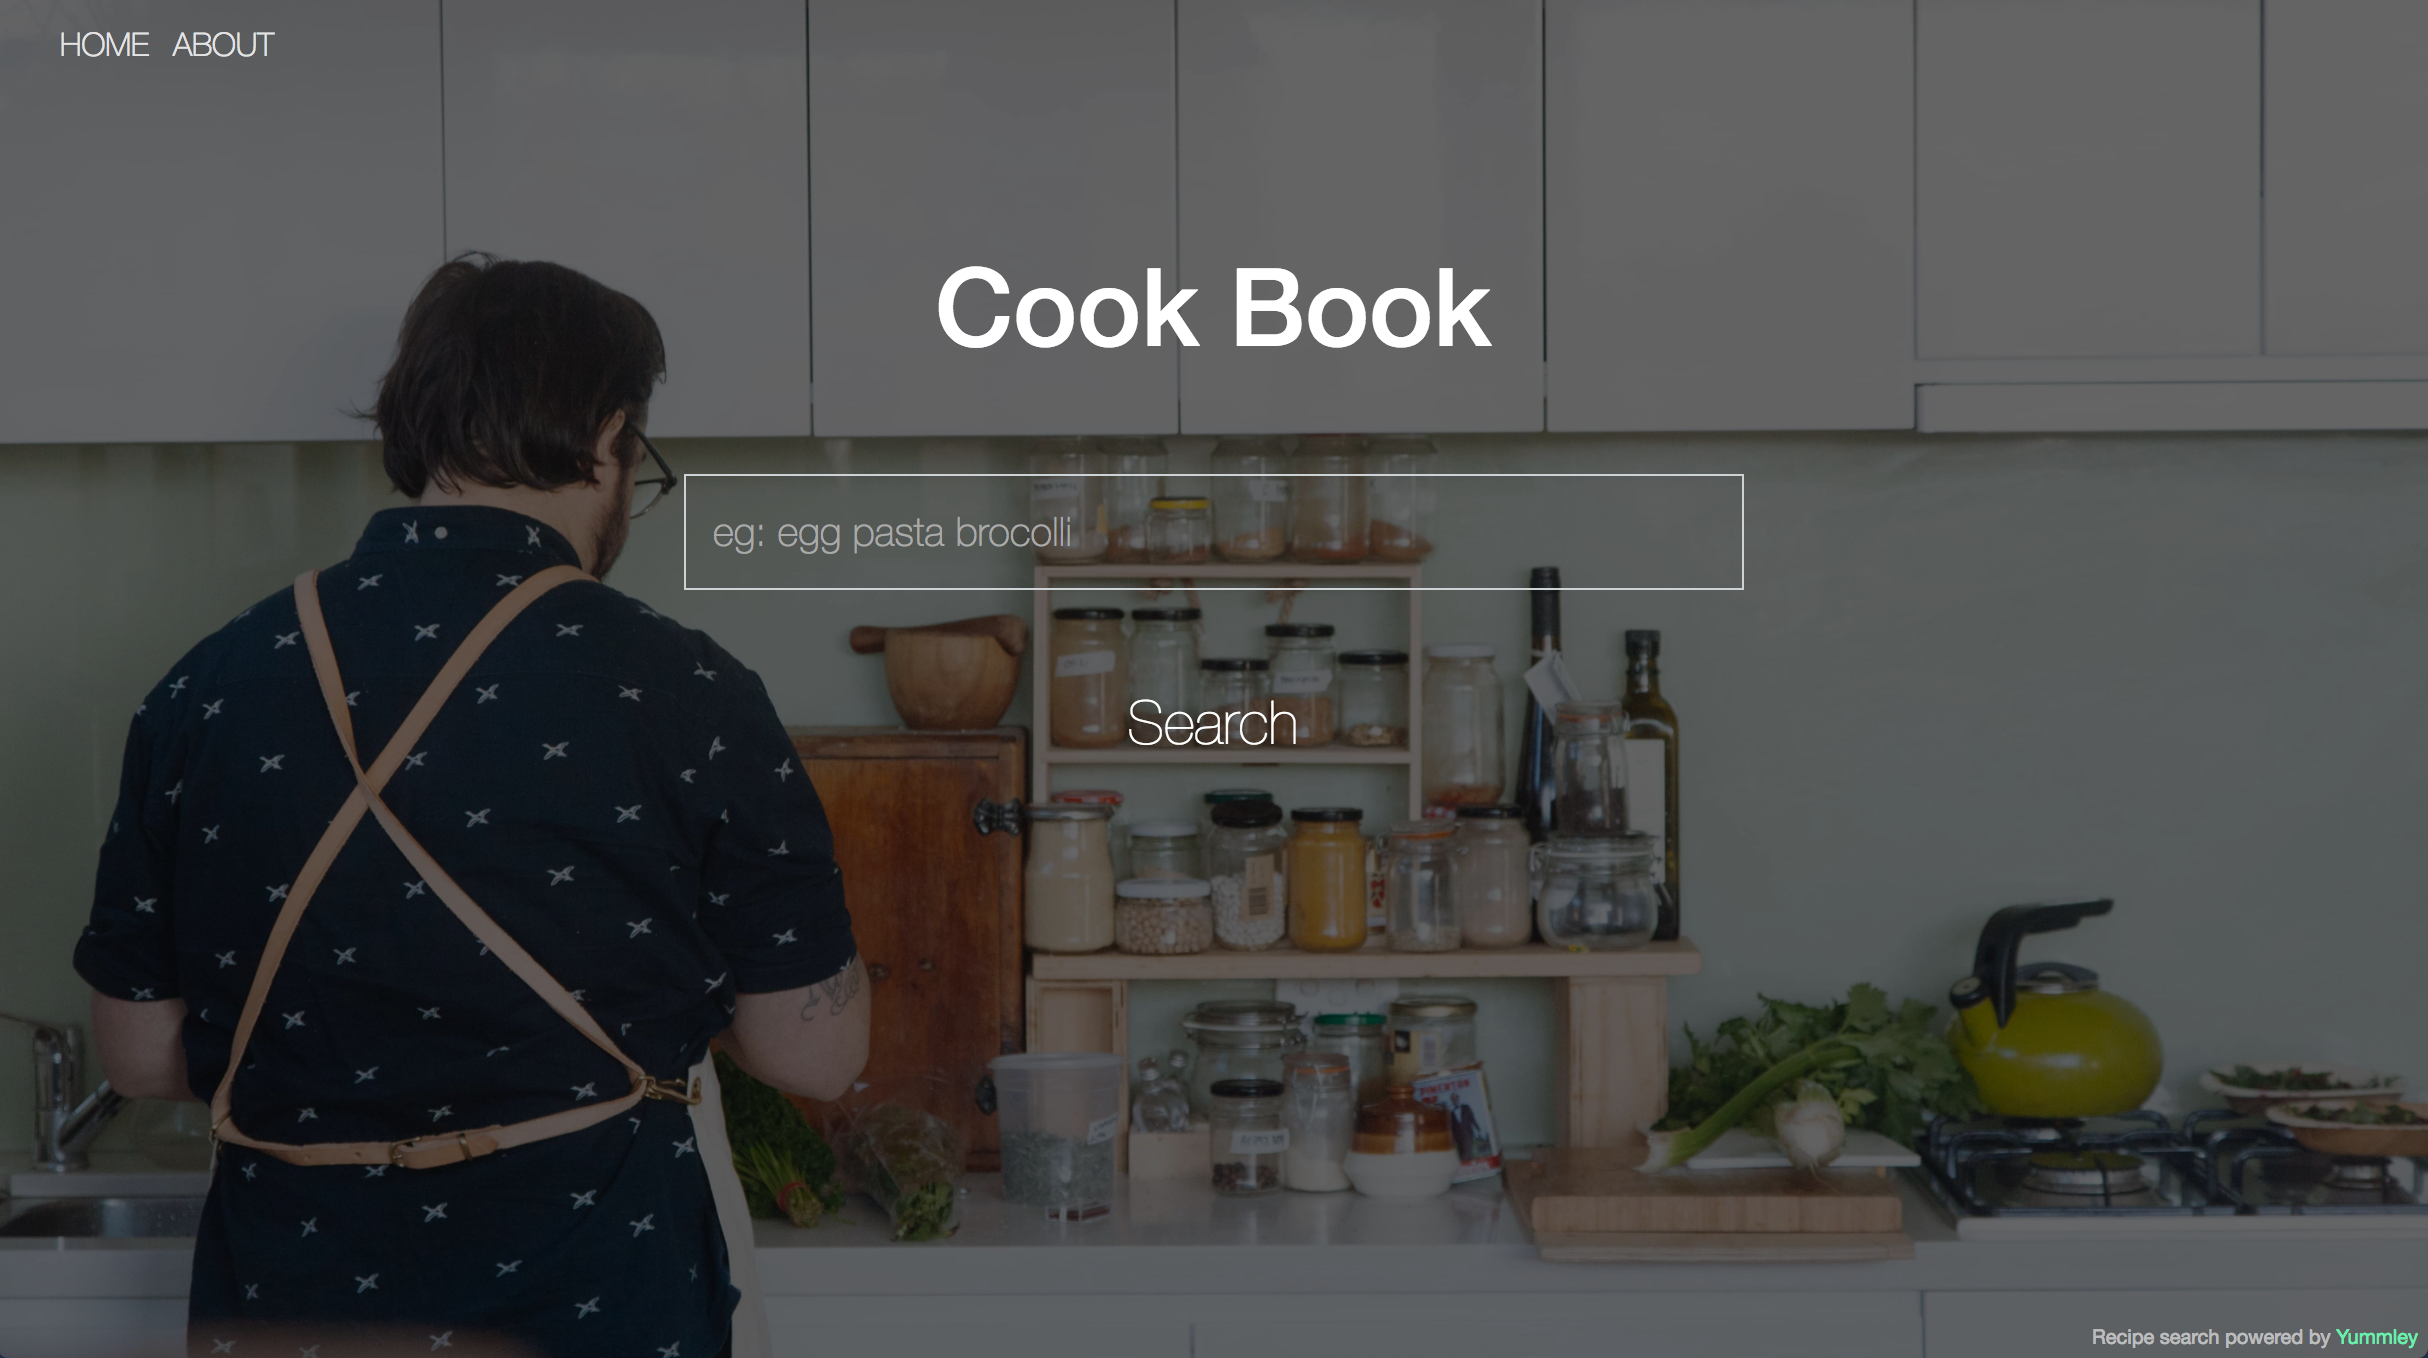
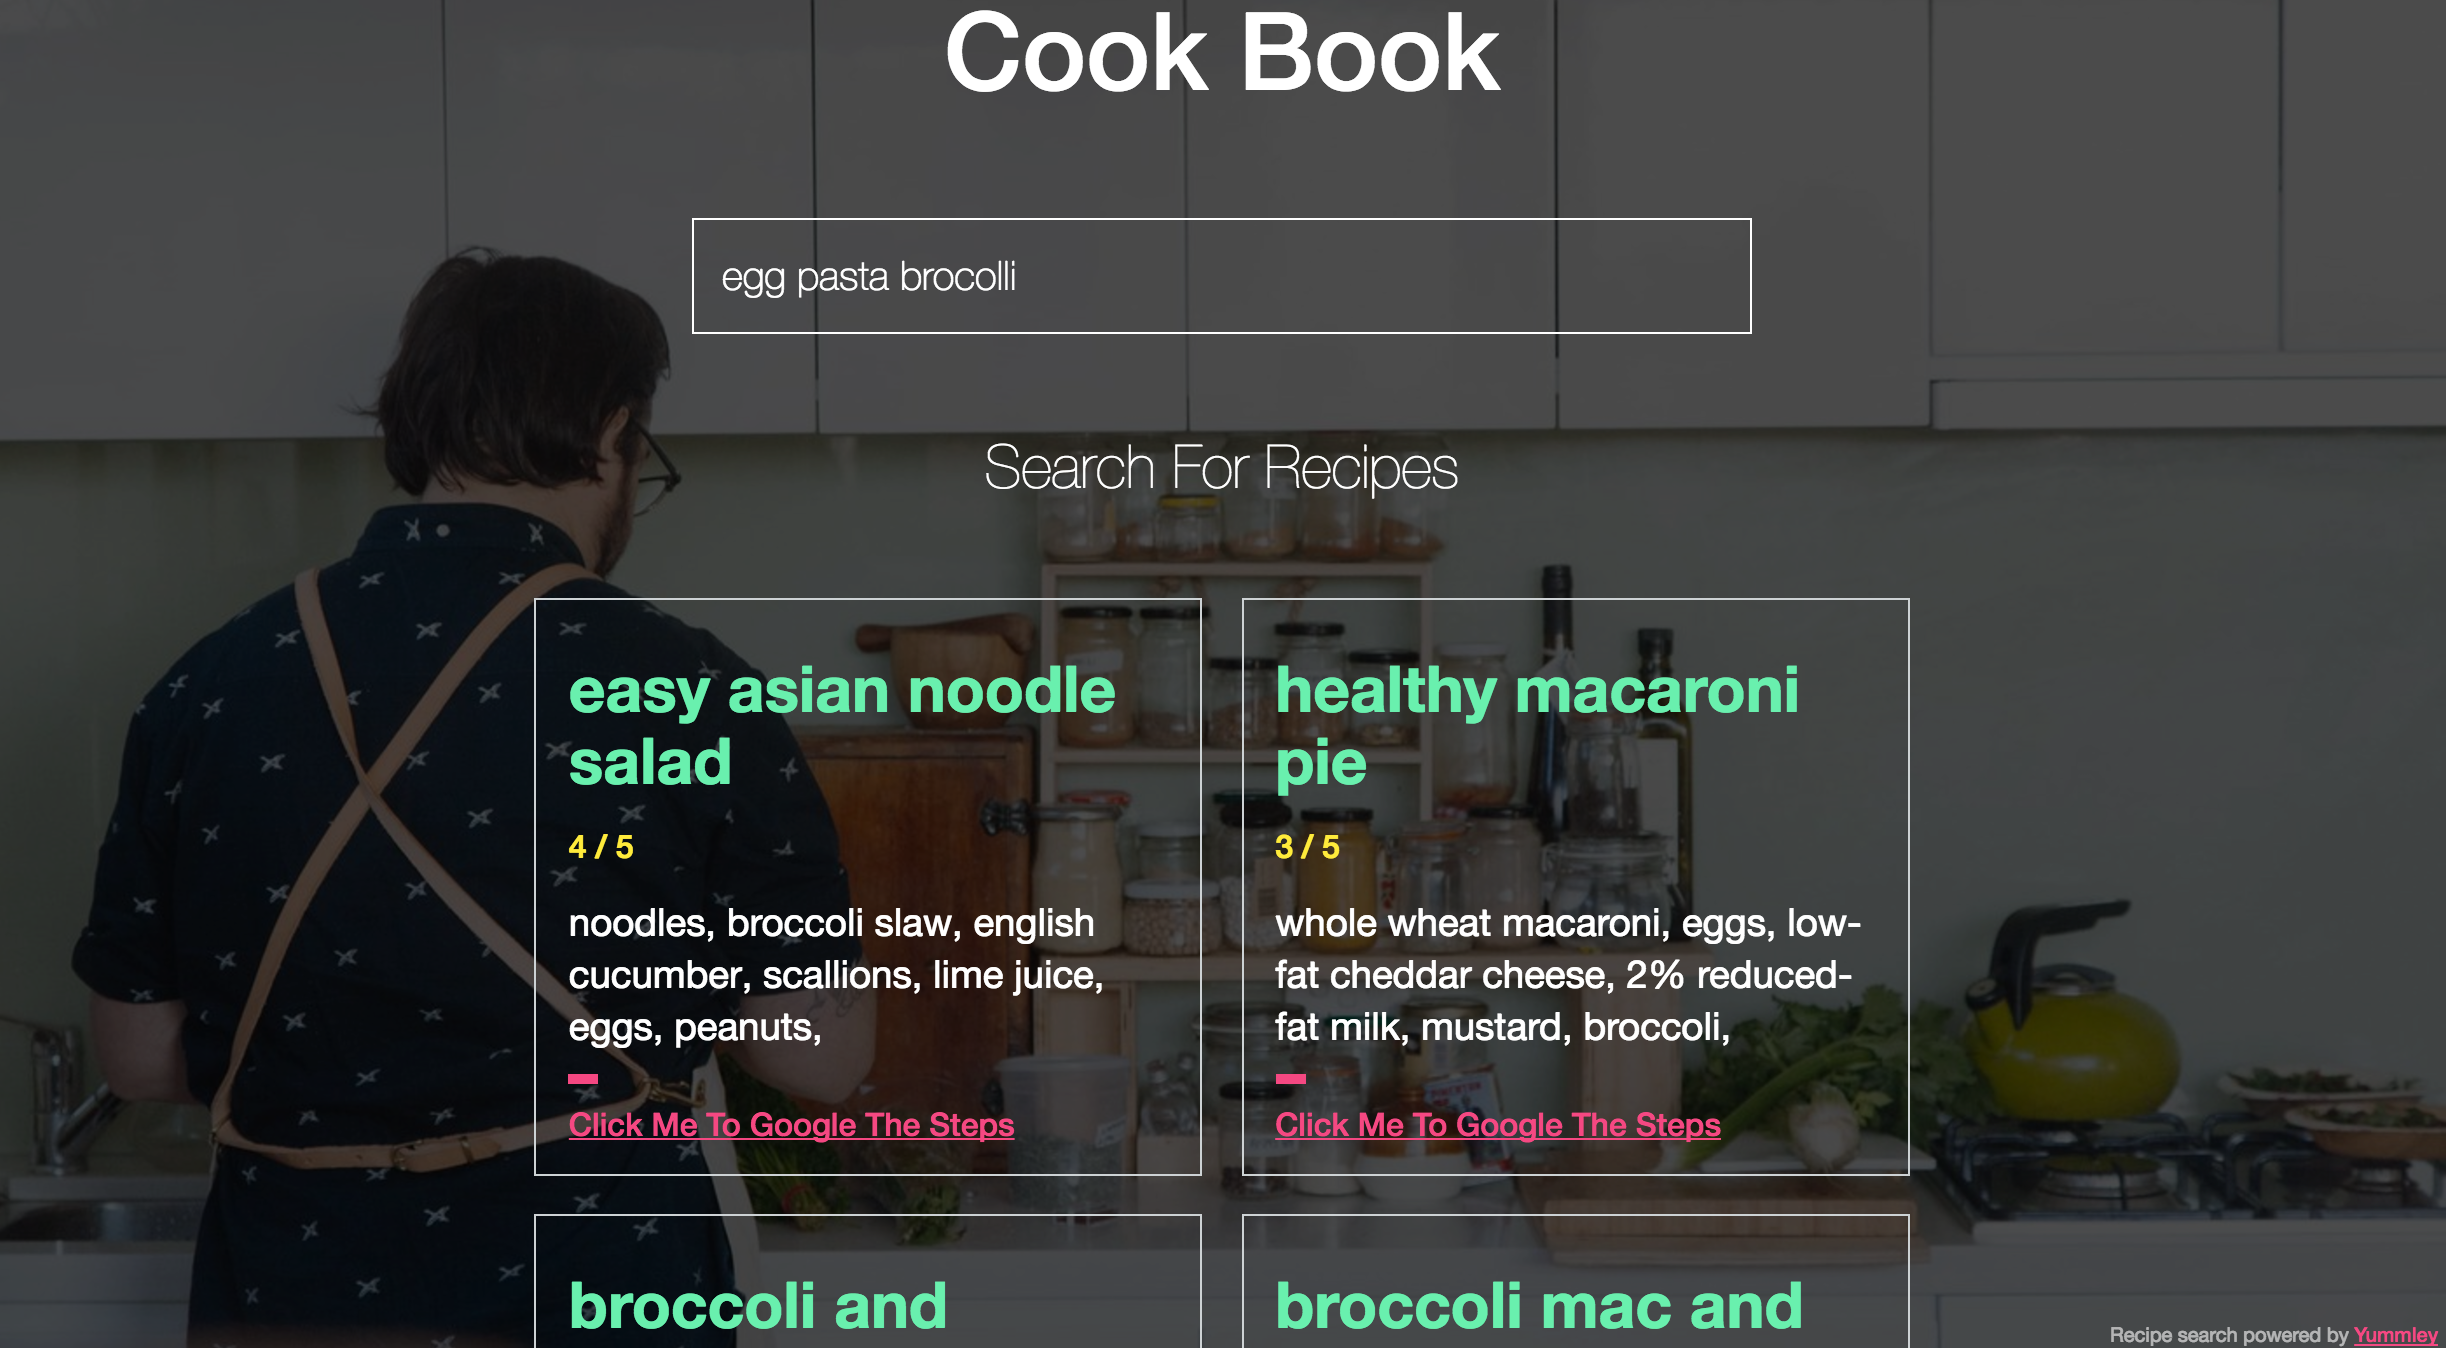
Edited github display image, removed leftover console.log statements, and converted Search component into functional component, since it never actually touches state.

diff --git a/src/App.js b/src/App.js
@@ -13,15 +13,11 @@ class App extends Component {
   }
 
   goToHome() {
-    this.setState({
-      page: 'HOME'
-    })
+    this.setState({page: 'HOME'})
   }
 
   goToAbout() {
-    this.setState({
-      page: 'ABOUT'
-    })
+    this.setState({page: 'ABOUT'})
   }
 
   ingredientsInput(event) {
@@ -30,6 +26,7 @@ class App extends Component {
 
   submit_button(e){
     e.preventDefault();
+
     this.setState({fetching: true});
     const { value, ingredients } = this.state;
     let inputData = {value: value.toLowerCase()};
@@ -40,14 +37,13 @@ class App extends Component {
       this.setState({returnedRecipes: []});
 
       /**
-       *Accepts ingredients user inserted ingredients, and performs *fetch request to Yummley API.
+       *Accepts ingredients user typed through search bar, and performs fetch request to Yummley API.
        */
       FetchYummley(_ingredients)
       .then(response => {
-        console.log(response);
         if(response.length === 0){
           this.setState({returnedRecipes: false})
-        } else {
+        }else{
           this.setState({returnedRecipes: response})
         }
         this.setState({fetching: false});
@@ -56,13 +52,16 @@ class App extends Component {
 
     /**
      *Reset ingredients state so that old list of ingredients aren't
-     *carried over with every request
+     *carried over with subsequent fetch requests
      */
     this.setState({ingredients: []});
   }
 
   render() {
-    const { fetching, returnedRecipes } = this.state;
+    const { fetching,
+            returnedRecipes,
+            value,
+          } = this.state;
     return (
       <div>
 
@@ -70,7 +69,7 @@ class App extends Component {
           <Search
             ingredientsInput={this.ingredientsInput}
             submit_button={this.submit_button}
-            value={this.state.value}
+            value={value}
             fetching={fetching}
           />
           <div className='content-container'></div>
@@ -81,22 +80,19 @@ class App extends Component {
           <div className='flexed-result-container'>
             {returnedRecipes && returnedRecipes.map(recipe => {
               const { key, name, rating, ingredients, sourceName } = recipe;
-
-            return (
-              <RecipeCard
-                key={key}
-                name={name}
-                rating={rating}
-                ingredients={ingredients}
-                sourceName={sourceName}
-              />
-            )
-          })}
+              return (
+                <RecipeCard
+                  key={key}
+                  name={name}
+                  rating={rating}
+                  ingredients={ingredients}
+                  sourceName={sourceName}
+                />
+              )
+            })}
           </div>
         </section>
-
         <div id='blurred-background'></div>
-
         <div id='acknowledgements'>
           Recipe search powered by <a href='http://www.yummly.co/recipes'>Yummley</a>
         </div>

diff --git a/src/Search.js b/src/Search.js
@@ -1,19 +1,23 @@
-import React, { Component } from 'react';
+import React from 'react';
 
-class Search extends Component{
-	render() {
-    const { fetching, value, ingredientsInput, submit_button } = this.props;
-    return (
-      <form className='content-container'>
-        <h1 id='home-title'>Cook Book</h1>
-        <input className='form-input' type="text" required value={value} onChange={ingredientsInput} placeholder='eg: egg pasta brocolli' />
-        <button type="submit" className="form-submit" onClick={(e) => submit_button(e)}>
-          { !fetching && <span className='emphasis-text'>Search</span> }
-          { fetching && <div className='loading'></div> }
-        </button>
-      </form>
-    )
-  }
+const Search = ({fetching, value, ingredientsInput, submit_button}) => {
+  return (
+    <form className='content-container'>
+      <h1 id='home-title'>Cook Book</h1>
+      <input
+        className='form-input'
+        type="text"
+        value={value}
+        onChange={ingredientsInput}
+        placeholder='eg: egg pasta brocolli'
+        required
+      />
+      <button type="submit" className="form-submit" onClick={(e) => submit_button(e)}>
+        { !fetching && <span className='emphasis-text'>Search For Recipes</span> }
+        { fetching && <div className='loading'></div> }
+      </button>
+    </form>
+  )
 }
 
 export default Search;

diff --git a/src/index.css b/src/index.css
@@ -185,7 +185,7 @@ button, input, select, textarea {
   display: block;
   position: relative;
   cursor: pointer;
-  padding: 0.6em 1em;
+  padding: 0.6em;
   margin: 0 auto;
   margin-top: 2em;
   text-decoration: none;
@@ -196,6 +196,10 @@ button, input, select, textarea {
   -o-transition: all 1s cubic-bezier(0.25, 0.8, 0.25, 1);
   -webkit-transition: all 1s cubic-bezier(0.25, 0.8, 0.25, 1);
   transition: all 1s cubic-bezier(0.25, 0.8, 0.25, 1);
+}
+
+.form-submit .emphasis-text {
+  font-size: 1.3em;
 }
 
 .form-input {

diff --git a/src/index.js b/src/index.js
@@ -1,11 +1,11 @@
 import React from 'react';
-import ReactDOM from 'react-dom';
+import { render } from 'react-dom';
 import Header from './Header';
 import './index.css';
 import {Router, Route, browserHistory, IndexRoute} from 'react-router';
 import App from './App'
 
-ReactDOM.render((
+render((
     <Router history={browserHistory}>
       <Route path="/" component={Header}>
         <IndexRoute component={App}/>
